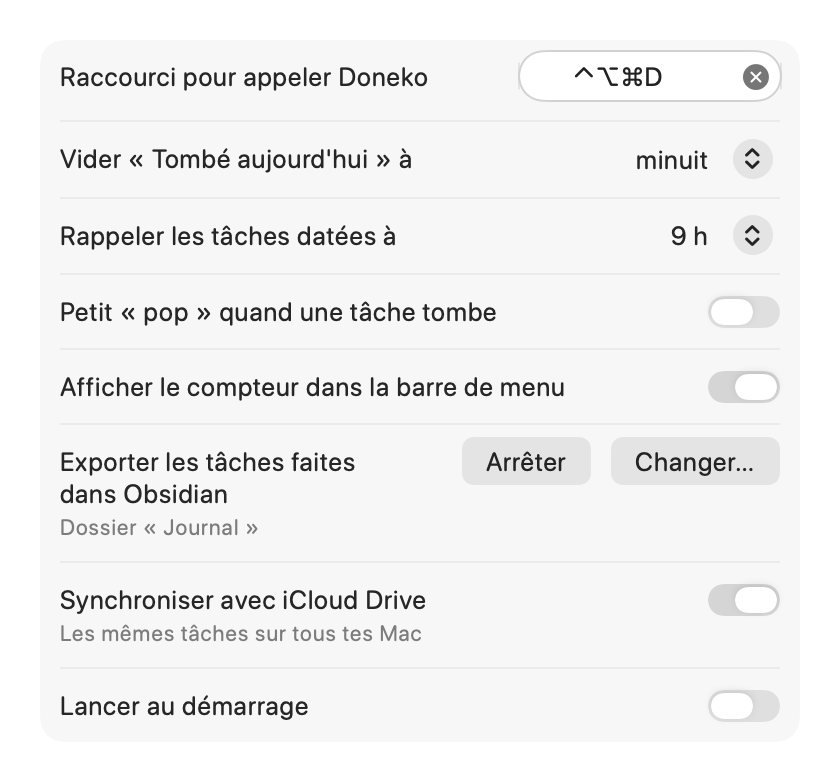
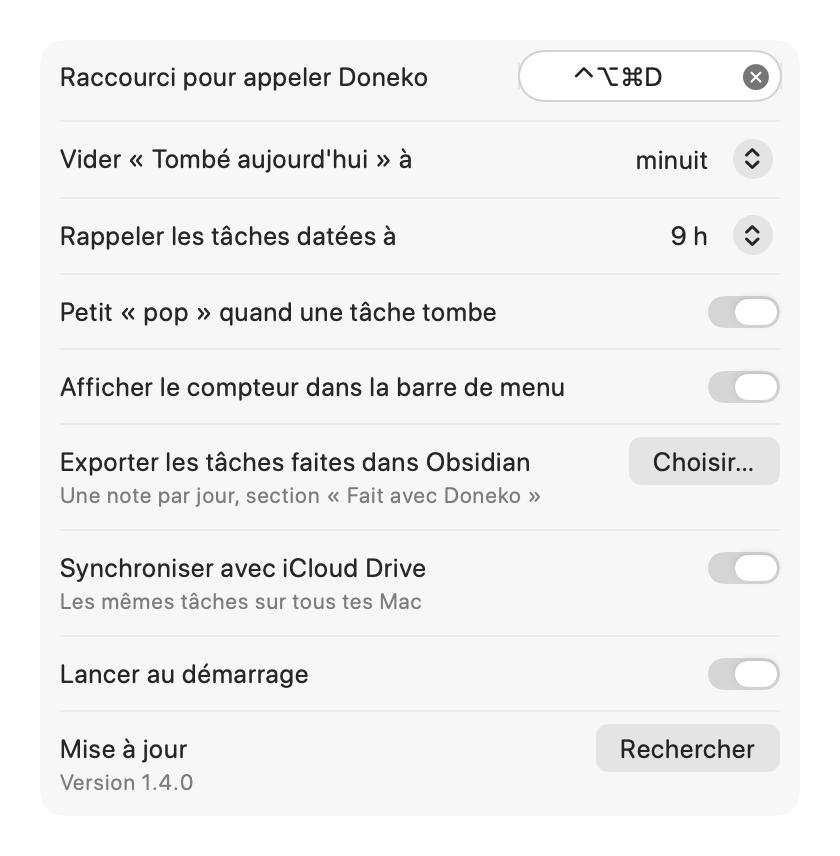
README à jour pour la 1.4.0
Mise à jour depuis les réglages du Mac (avec la capture des Réglages refaite),
Apparence sur l'iPhone, nouvelle version iPhone installée par Xcode, script des
animations vidéo et dossier du logo.

diff --git a/README.md b/README.md
@@ -78,7 +78,8 @@ iCloud Drive.
   portée de pouce.
 - Balayer pour supprimer, toucher le texte pour modifier, appui long pour « Prioritaire » et « Ranger dans ».
 - Le nombre de tâches du jour en pastille sur l'icône, et les rappels des échéances.
-- Mode clair et sombre, « Réduire les animations » respecté, VoiceOver, interface entièrement en français.
+- Mode clair et sombre (ou imposé dans Réglages › Apparence), « Réduire les animations » respecté, VoiceOver,
+  interface entièrement en français.
 
 ## Aperçu
 
@@ -146,10 +147,11 @@ L'app iPhone n'est pas sur l'App Store : elle s'installe depuis Xcode, avec un s
 
 > [!NOTE]
 > Avec un compte gratuit, l'app installée **expire au bout de 7 jours** : relance-la depuis Xcode pour une nouvelle
-> semaine. Tes tâches restent.
+> semaine. Tes tâches restent. Une nouvelle version s'installe de la même façon (la mise à jour depuis les
+> réglages n'existe que sur le Mac).
 
 **Synchroniser avec le Mac**
-1. Mets **tous tes Mac** à jour en Doneko 1.2 : la version 1.1 ne sait pas lire la liste avec dossiers.
+1. Mets **tous tes Mac** en Doneko 1.2 ou plus récent : la version 1.1 ne sait pas lire la liste avec dossiers.
 2. Sur le Mac : Réglages › **Synchroniser avec iCloud Drive**.
 3. Sur l'iPhone : ⚙ › **Choisir le dossier Doneko…** › iCloud Drive › Doneko.
 
@@ -222,11 +224,14 @@ Clic droit sur l'icône de la barre de menu : **Réglages…** et **Quitter**.
   un autre Mac ou l'iPhone la change. Les deux versions sont fusionnées tâche par tâche : la modification la plus
   récente de chaque tâche gagne, et une suppression l'emporte pendant 30 jours.
 - **Lancer au démarrage.**
+- **Mise à jour** : « Rechercher » regarde s'il y a une version plus récente sur GitHub ; « Installer et relancer »
+  la télécharge, vérifie son empreinte SHA-256, la met à la place de l'app et relance Doneko. Tes tâches et tes
+  réglages restent. Rien ne passe par le réseau sans ce clic.
 
 Sans synchronisation, les tâches sont enregistrées dans `~/Library/Application Support/Doneko/todos.json`.
 
-Sur l'iPhone, le bouton ⚙ ouvre les mêmes réglages, ou presque : synchronisation avec le Mac, heure de vidage,
-rappels, « pop » et pastille sur l'icône. Quand la liste est partagée, l'iPhone masque les tâches de la veille sans
+Sur l'iPhone, le bouton ⚙ ouvre les mêmes réglages, ou presque : synchronisation avec le Mac, apparence (clair,
+sombre ou automatique), heure de vidage, rappels, « pop » et pastille sur l'icône. Quand la liste est partagée, l'iPhone masque les tâches de la veille sans
 les effacer : le Mac les exporte dans Obsidian, puis les vide.
 
 ## Compiler depuis les sources
@@ -266,7 +271,8 @@ xcodebuild -project Doneko.xcodeproj -scheme Doneko -derivedDataPath build test
 - Le projet Xcode est généré par XcodeGen à partir de `project.yml` : ne pas modifier le `.xcodeproj` à la main.
 - La direction artistique (palette, typographie, animations, micro-textes) est décrite dans [`DESIGN.md`](DESIGN.md).
 - Les illustrations sont dans `Artwork/` : `make-appicon.sh` génère l'icône, `make-mascots.swift` détoure les mascottes,
-  `make-pop.py` génère le « pop » de l'iPhone.
+  `make-animations.swift` tire la sieste et le coup de patte des vidéos de `Artwork/Videos/`, `make-pop.py` génère
+  le « pop » de l'iPhone. Le logo et son guide sont dans `Artwork/Logo/`.
 - `./make-dmg.sh` compile la version Release et produit `build/Doneko.dmg`, à joindre tel quel à une release
   GitHub : le lien de téléchargement du README suppose ce nom. Le Finder enregistre la disposition de la fenêtre
   (fond, icônes) : macOS demande une fois l'autorisation de le piloter, et aucun volume Doneko ne doit être ouvert.
